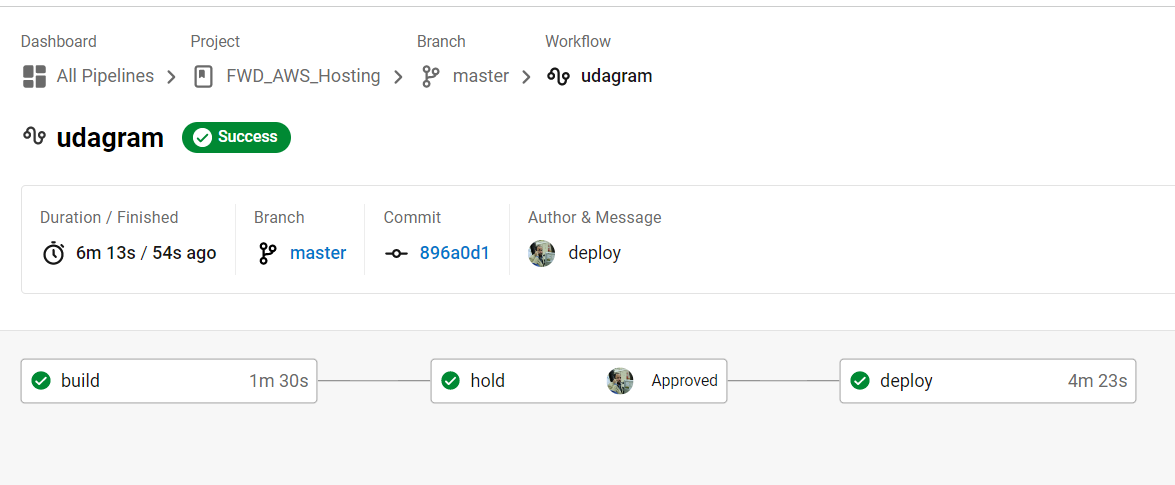
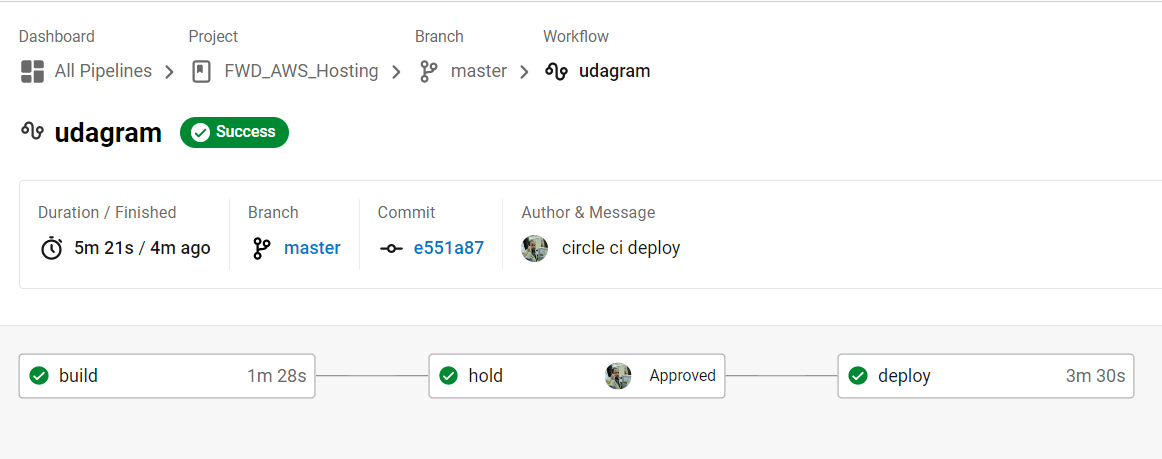
circle ci deploy

diff --git a/README.md b/README.md
@@ -28,15 +28,17 @@ use scripts :-
 "frontend:deploy": "cd udagram/udagram-frontend && npm run deploy",
 "frontend:deploy_local": "cd udagram/udagram-frontend && npm run deploy_local",
 
-        "api:install": "cd udagram/udagram-api && npm install .",
-        "api:build": "cd udagram/udagram-api && npm run build",
-        "api:start": "cd udagram/udagram-api && npm run start",
-        "api:deploy": "cd udagram/udagram-api && npm run deploy",
-        "api:deploy_local": "cd udagram/udagram-api && npm run deploy_local",
+"api:install": "cd udagram/udagram-api && npm install .",
+"api:build": "cd udagram/udagram-api && npm run build",
+"api:start": "cd udagram/udagram-api && npm run start",
+"api:deploy": "cd udagram/udagram-api && npm run deploy",
+"api:deploy_local": "cd udagram/udagram-api && npm run deploy_local",
 
-        "deploy": "npm run api:deploy && npm run frontend:deploy"
+"deploy": "npm run api:deploy && npm run frontend:deploy"
 
-        Note frontend:deploy_local , api:deploy_local for windows machines
+## Note
+        frontend:deploy_local , api:deploy_local for windows machines
+        while frontend:deploy , api:deploy for Circleci
 
 ## Testing
 
@@ -74,7 +76,7 @@ The e2e tests are using Protractor and Jasmine.
 
 ## Front-end Application
 
-[http://fwd-07-2022.s3-website-us-east-1.amazonaws.com]
+[http://fwd-07-2022.s3-website-us-east-1.amazonaws.com](http://fwd-07-2022.s3-website-us-east-1.amazonaws.com)
 
 ## Diagram
 
@@ -89,4 +91,5 @@ The e2e tests are using Protractor and Jasmine.
 
 ## ci/ci using circle ci connected to GitHub
 
-screen shot "./screenshot/CircleCi.PNG"
+circleCi env "./screenshot/CircleCi_Env_Variable.PNG"
+circleCi success "./screenshot/CircleCi.PNG"
